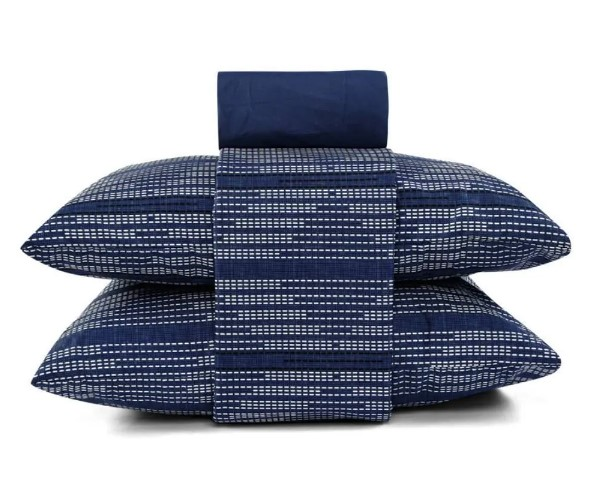
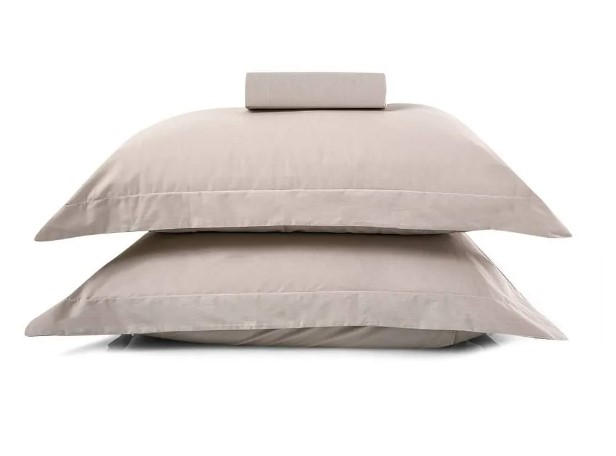
Adicionando mais itens

diff --git a/item/paneladearroz/index.html b/item/paneladearroz/index.html
@@ -19,13 +19,13 @@
         <nav class="detalhes">
             <div class="descricao">
                 <h2 id="nome">
-                    Batedeira
+                    Panela de <br>arroz eletrica
                 </h2>
                 <h3 id="valor">
-                    400,00
+                    300,00
                 </h3>
                 <p id="loja">
-                    Casas Bahia
+                    Havan
                 </p>
             </div>
             <form action="https://formsubmit.co/pablovgramos@gmail.com" method="post">

diff --git a/item/jogodefacas/index.html b/item/jogodefacas/index.html
@@ -19,13 +19,13 @@
         <nav class="detalhes">
             <div class="descricao">
                 <h2 id="nome">
-                    Batedeira
+                    Jogo de facas
                 </h2>
                 <h3 id="valor">
-                    400,00
+                    120,00
                 </h3>
                 <p id="loja">
-                    Casas Bahia
+                    Nosso Lar
                 </p>
             </div>
             <form action="https://formsubmit.co/pablovgramos@gmail.com" method="post">

diff --git a/item/jogodecopos/index.html b/item/jogodecopos/index.html
@@ -19,13 +19,13 @@
         <nav class="detalhes">
             <div class="descricao">
                 <h2 id="nome">
-                    Batedeira
+                    Jogo de copos
                 </h2>
                 <h3 id="valor">
-                    400,00
+                    30,00
                 </h3>
                 <p id="loja">
-                    Casas Bahia
+                    Havan
                 </p>
             </div>
             <form action="https://formsubmit.co/pablovgramos@gmail.com" method="post">

diff --git a/item/kitmop/index.html b/item/kitmop/index.html
@@ -19,13 +19,13 @@
         <nav class="detalhes">
             <div class="descricao">
                 <h2 id="nome">
-                    Batedeira
+                    MOP
                 </h2>
                 <h3 id="valor">
-                    400,00
+                    110,00
                 </h3>
                 <p id="loja">
-                    Casas Bahia
+                    Nosso Lar
                 </p>
             </div>
             <form action="https://formsubmit.co/pablovgramos@gmail.com" method="post">

diff --git a/item/liquidificador/index.html b/item/liquidificador/index.html
@@ -22,10 +22,10 @@
                     Liquidificador
                 </h2>
                 <h3 id="valor">
-                    200,00
+                    160,00
                 </h3>
                 <p id="loja">
-                    Havan
+                    Casas Bahia
                 </p>
             </div>
             <form action="https://formsubmit.co/pablovgramos@gmail.com" method="post">

diff --git a/item/jogodecama/index.html b/item/jogodecama/index.html
@@ -22,10 +22,10 @@
                     Jogo de Cama
                 </h2>
                 <h3 id="valor">
-                    400,00
+                    220,00
                 </h3>
                 <p id="loja">
-                    Casas Bahia
+                    Havan
                 </p>
             </div>
             <form action="https://formsubmit.co/pablovgramos@gmail.com" method="post">

diff --git a/item/paneladearroz/style.css b/item/paneladearroz/style.css
@@ -42,7 +42,7 @@ section{
 }
 
 #espacoimagem{
-    background-image: url("/./item/img/");
+    background-image: url("/./item/img/paneladearroz.jpg");
     width: 32vw;
     height: 20vw;
     background-repeat: no-repeat;
@@ -132,7 +132,7 @@ footer{
     }
     
     h2{
-        font-size: 3em;
+        font-size: 1.5em;
     }
     h3{
         margin: 2%;

diff --git a/item/jogodecama/style.css b/item/jogodecama/style.css
@@ -42,7 +42,7 @@ section{
 }
 
 #espacoimagem{
-    background-image: url("/./item/img/");
+    background-image: url("/./item/img/jogocama.jpg");
     width: 32vw;
     height: 20vw;
     background-repeat: no-repeat;

diff --git a/item/jogodecopos/style.css b/item/jogodecopos/style.css
@@ -42,7 +42,7 @@ section{
 }
 
 #espacoimagem{
-    background-image: url("/./item/img/");
+    background-image: url("/./item/img/copos.jpg");
     width: 32vw;
     height: 20vw;
     background-repeat: no-repeat;

diff --git a/item/jogodefacas/style.css b/item/jogodefacas/style.css
@@ -42,7 +42,7 @@ section{
 }
 
 #espacoimagem{
-    background-image: url("/./item/img/");
+    background-image: url("/./item/img/facas.jpg");
     width: 32vw;
     height: 20vw;
     background-repeat: no-repeat;

diff --git a/item/kitmop/style.css b/item/kitmop/style.css
@@ -42,7 +42,7 @@ section{
 }
 
 #espacoimagem{
-    background-image: url("/./item/img/");
+    background-image: url("/./item/img/mop.jpg");
     width: 32vw;
     height: 20vw;
     background-repeat: no-repeat;
